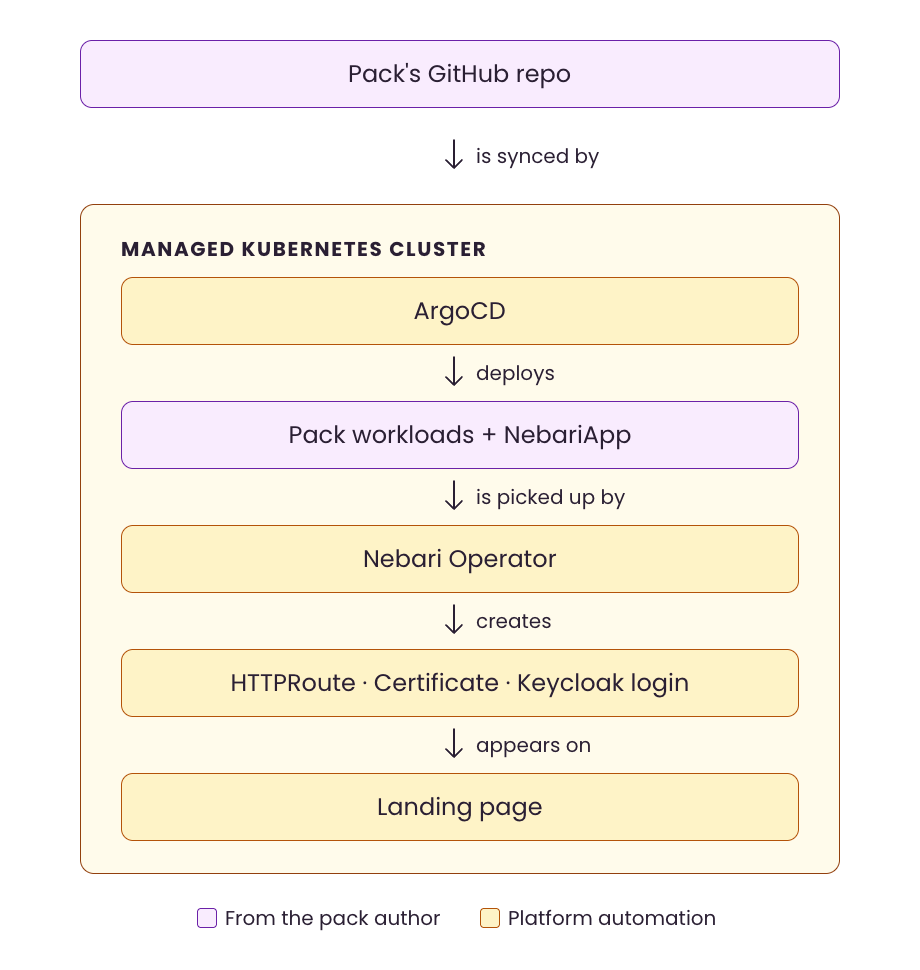
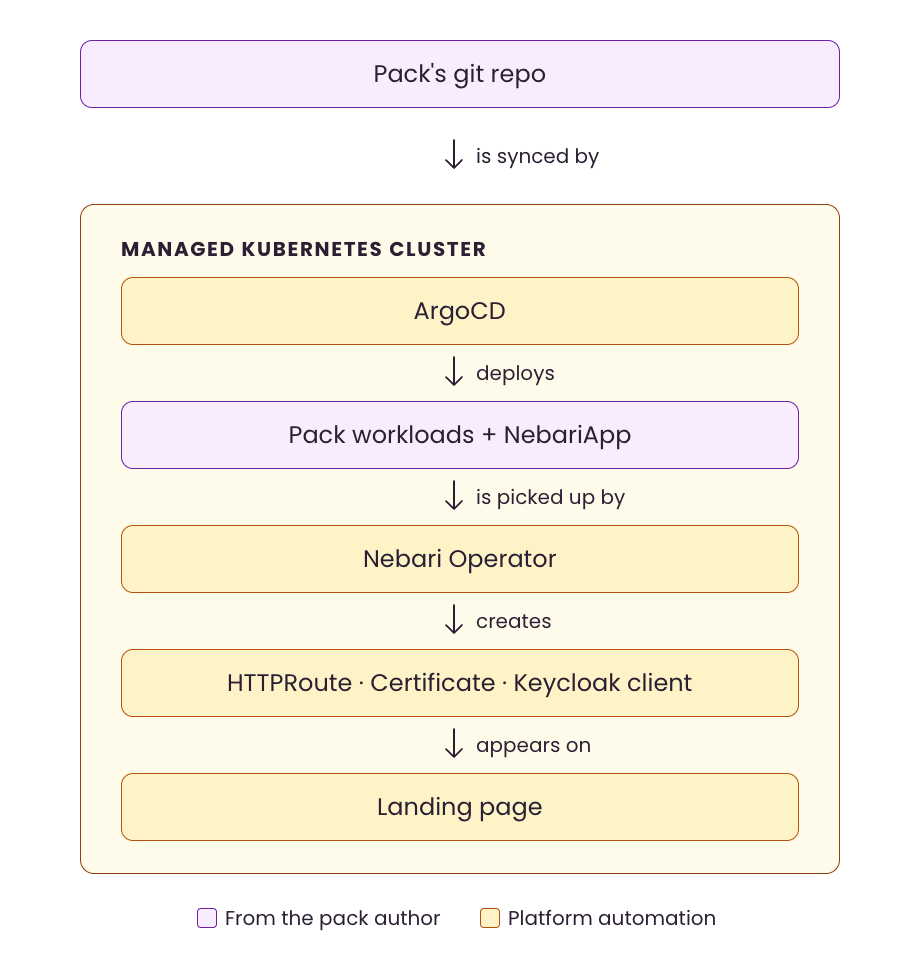
docs(explanations): address review on Pack architecture page
- Call the operator-created object a Keycloak client, not a login,
  and reword so the client belongs to the pack and the sign-in to the
  user (lines 46, 56, and diagram)
- Replace 'visitors' with 'users'
- Genericize 'GitHub repository' to 'git repository' since packs only
  need to be ArgoCD-deployable, not GitHub-hosted (keep the nebari-dev
  org reference)
- Link the NebariApp configuration reference
- Rename the resilience bullet to 'Smaller blast radius'
- Note that a monolithic bundle widens the attack surface
- Update the pack-lifecycle diagram labels to match

Changed region(s): [[0.2435, 0.6804, 0.7609, 0.7113], [0.3652, 0.0619, 0.6087, 0.0928]]

diff --git a/docs/static/img/explanations/_sources/pack-lifecycle.html b/docs/static/img/explanations/_sources/pack-lifecycle.html
@@ -13,9 +13,9 @@
 <body>
   <div class="artboard" style="background-color: #FFFFFF; box-sizing: border-box; display: flex; flex-direction: column; gap: 24px; padding: 40px 80px; width: 920px; font-family: 'Poppins', system-ui, sans-serif;">
 
-    <!-- Pack's GitHub repo (outside the cluster) -->
+    <!-- Pack's git repo (outside the cluster) -->
     <div style="align-items: center; background-color: #F9ECFE; border: 1.5px solid #6B21A8; border-radius: 12px; display: flex; flex-direction: column; gap: 4px; padding: 18px 32px;">
-      <div style="color: #2A1F33; font-size: 24px; line-height: 30px;">Pack's GitHub repo</div>
+      <div style="color: #2A1F33; font-size: 24px; line-height: 30px;">Pack's git repo</div>
     </div>
 
     <!-- "is synced by" arrow -->
@@ -84,9 +84,9 @@
         </div>
       </div>
 
-      <!-- HTTPRoute · Certificate · Keycloak login (platform automation, peach) -->
+      <!-- HTTPRoute · Certificate · Keycloak client (platform automation, peach) -->
       <div style="align-items: center; background-color: #FEF3C7; border: 1.5px solid #B45309; border-radius: 12px; display: flex; flex-direction: column; gap: 4px; padding: 18px 32px;">
-        <div style="color: #2A1F33; font-size: 24px; line-height: 30px;">HTTPRoute · Certificate · Keycloak login</div>
+        <div style="color: #2A1F33; font-size: 24px; line-height: 30px;">HTTPRoute · Certificate · Keycloak client</div>
       </div>
 
       <!-- "appears on" arrow -->